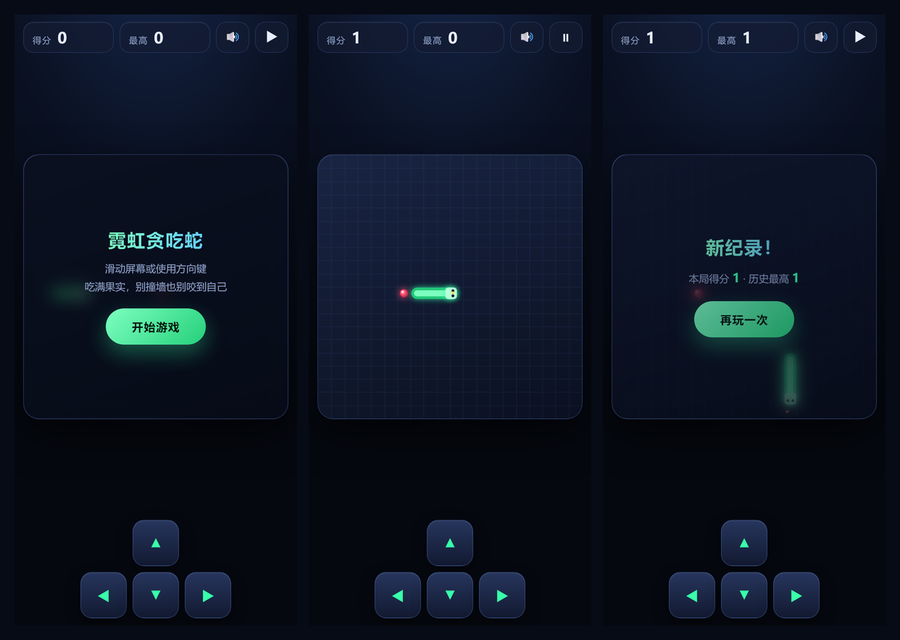
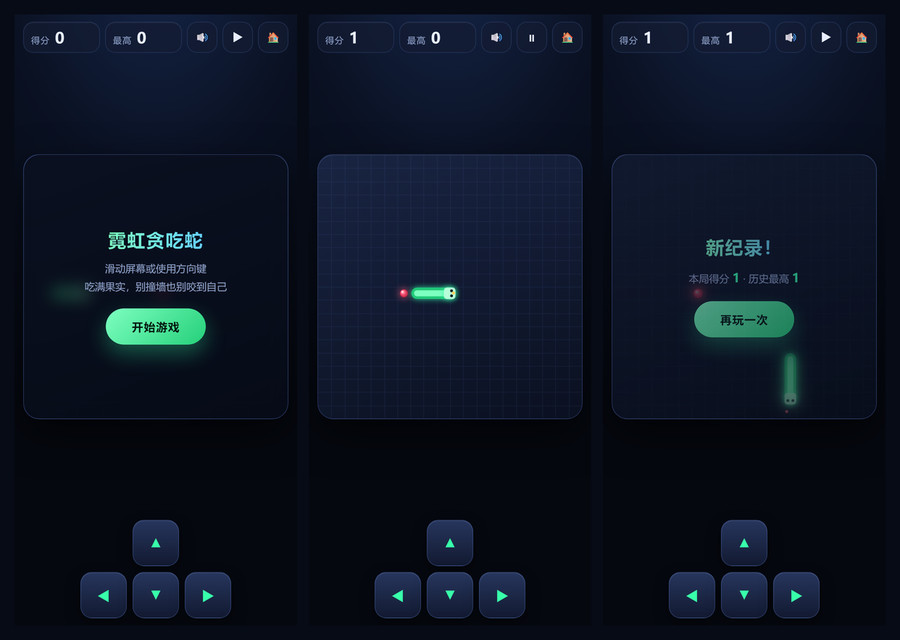
feat: 顶部加「返回游戏盒」按钮，接入游戏合集导航
- HUD 增加 🏠 链接指向 https://qiuye-autumnnight.github.io/
- 收窄图标按钮与统计卡间距，保证 390px 窄屏下 5 个元素不挤爆
- 统计数字加 nowrap + overflow 保护，四位数得分不会撑破卡片
- README 补充游戏盒入口

diff --git a/styles.css b/styles.css
@@ -48,7 +48,7 @@ body {
 .hud {
   display: flex;
   align-items: stretch;
-  gap: 8px;
+  gap: 7px;
   flex: none;
 }
 
@@ -57,17 +57,19 @@ body {
   min-width: 0;
   display: flex;
   align-items: baseline;
-  gap: 8px;
-  padding: 7px 12px;
+  gap: 7px;
+  padding: 7px 10px;
   border: 1px solid var(--line);
   border-radius: 14px;
   background: var(--panel);
   box-shadow: inset 0 1px 0 rgba(255, 255, 255, .05);
+  overflow: hidden;
 }
 
 .stat span {
+  flex: none;
   font-size: 12px;
-  letter-spacing: .1em;
+  letter-spacing: .08em;
   color: var(--muted);
 }
 
@@ -75,19 +77,21 @@ body {
   font-size: 21px;
   font-variant-numeric: tabular-nums;
   letter-spacing: .02em;
+  white-space: nowrap;
 }
 
 .icon-btn {
   flex: none;
-  width: 46px;
+  width: 42px;
   border: 1px solid var(--line);
   border-radius: 14px;
   background: var(--panel);
   color: var(--text);
-  font-size: 17px;
+  font-size: 15px;
   line-height: 1;
   display: grid;
   place-items: center;
+  text-decoration: none;
   cursor: pointer;
   transition: transform .1s ease, background .15s ease;
 }

diff --git a/index.html b/index.html
@@ -29,6 +29,7 @@
     </div>
     <button type="button" class="icon-btn" id="btnSound" aria-label="音效开关">🔊</button>
     <button type="button" class="icon-btn" id="btnPause" aria-label="暂停或继续">⏸</button>
+    <a class="icon-btn" id="btnHome" href="https://qiuye-autumnnight.github.io/" aria-label="返回游戏盒">🏠</a>
   </header>
 
   <main class="stage" id="stage">

diff --git a/README.md b/README.md
@@ -7,6 +7,7 @@
 **在线试玩：<https://qiuye-autumnnight.github.io/snake-game/>**
 
 > 手机上打开上面这个链接即可开玩；在浏览器菜单里选「添加到主屏幕」，就会像小程序一样全屏启动，并且断网也能玩。
+> 想玩别的？回到 [🎮 游戏盒](https://qiuye-autumnnight.github.io/)。
 
 ## 玩法
 
